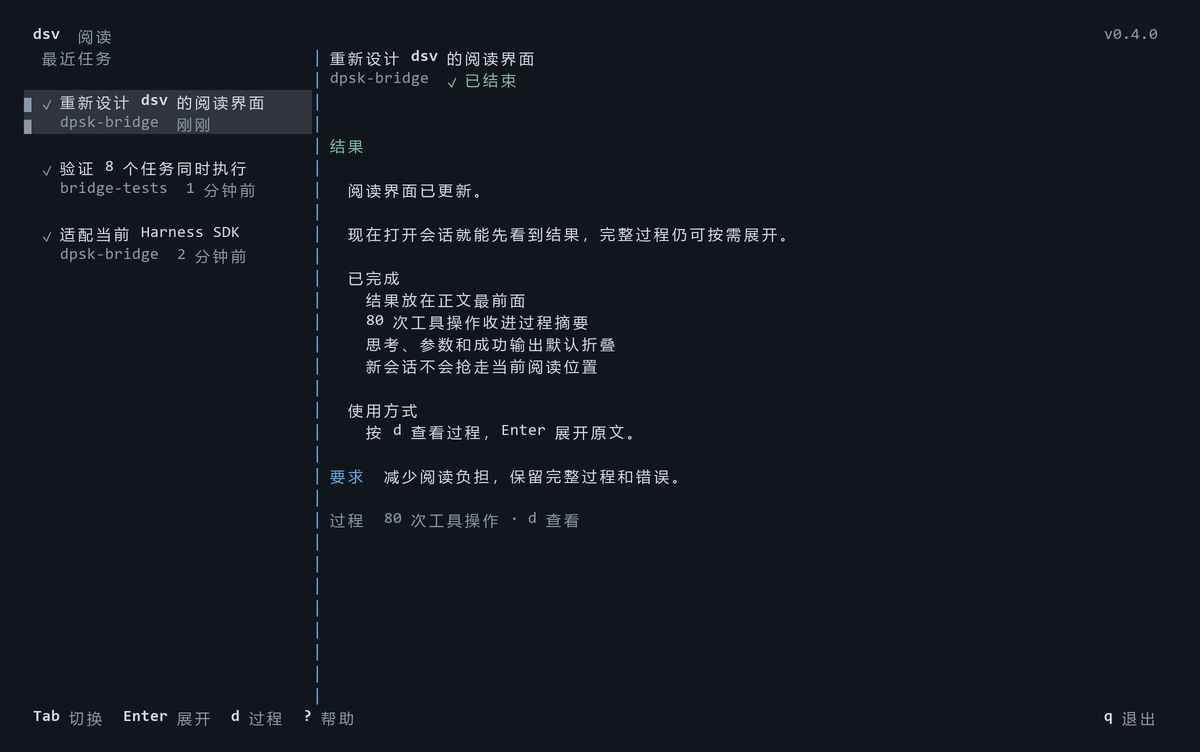
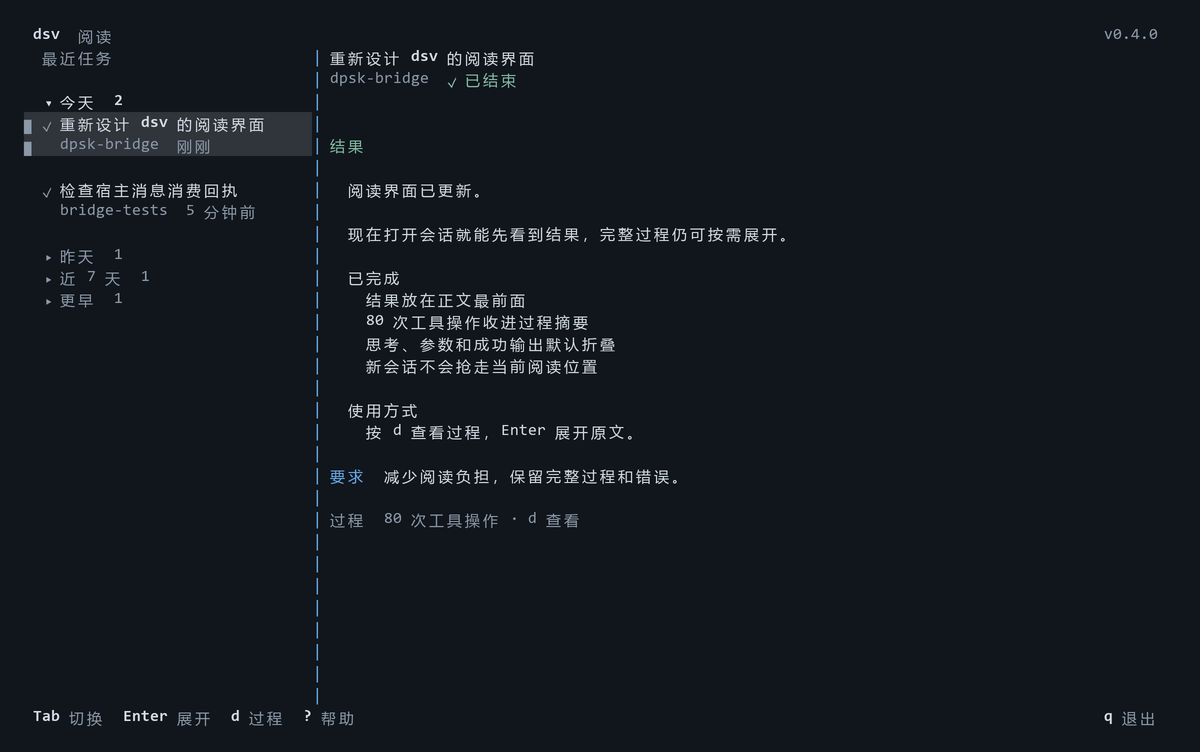
Group dsv sidebar sessions into collapsible time sections

Changed region(s): [[0.0, 0.1223, 0.2775, 0.4282]]

diff --git a/README.md b/README.md
@@ -98,6 +98,8 @@ dsv 读取当前 v4 明文/zstd 日志，增量处理残缺尾部、原生工具
 
 默认阅读视图先显示待回复问题和最新结果，任务原文可展开，工具流水汇成一行；思考、成功输出、时间戳和用量不占正文。按 d 切换完整过程，工具调用与返回合成一条可展开记录，计划更新按轮次汇总。新会话不会自动切走当前任务。
 
+左侧按最后更新时间分成今天、昨天、近 7 天、更早，按本地日历日划分。今天和启动时当前会话所在组默认展开，其余历史组收起；分组只展示非空组并附任务数。点击组标题，或在列表中选中组后按 Enter/空格折叠展开，左右键收起/展开。折叠不切换正文，刷新期间保留折叠状态。
+
 Tab 在任务列表与正文间切换，方向键或 j/k 移动，Enter/空格展开，Esc 返回列表，PgUp/PgDn 翻页，g/G 到顶/底，e/E 全部展开/收起。r 显示思考，i 查看路径/ID/用量，? 查看帮助，q 退出。自动切换(a)和提示音(b)默认关闭，可按需开启。窄窗口直接显示正文。日志状态不证明进程存活或验收结果。缓存最多 60 个会话，单会话 16 MiB/3 万事件，总解码缓存 64 MiB，超过限制会提示。
 
 TUI 异步检查 GitHub 最新正式 Release，缓存 6 小时，常驻时每小时重新评估。发现更新后顶栏提示，按 u 安装。网络检查失败不影响查看；普通命令行查看不联网检查。设置 NO_UPDATE_NOTIFIER=1、CI 环境或 --no-update-check 可关闭 TUI 自动检查，显式 dsv update 仍可用。

diff --git a/VALIDATION.md b/VALIDATION.md
@@ -8,6 +8,8 @@
 - 独立的真实 8 并发测试：8/8 作业成功，观测峰值为 8，逐一读取并验证产物。另有真实双任务并发测试通过。
 - dsv 阅读重设计：默认折叠 80 次成功工具输出，宽/窄窗口、键盘展开与帮助、新会话保持当前阅读、2105 行长回答与完整输出、终端控制码过滤均已回归；TUI 已在实际终端启动并通过 q 正常退出。
 
+时间分组增量回归：查看器模型与实际 TUI 帧测试 22/22 通过，覆盖本地日历日边界、排序、键盘/鼠标折叠、刷新保留折叠状态和宽窄窗口。上述 87 项为时间分组提交前的完整本地回归。
+
 更新器使用真实临时 Git 仓库验证快进、脏目录拒绝、错误 origin、分叉、依赖失败和保留预约恢复；网络发布源及 npm 安装边界在回归中模拟。没有把开发中的工作区更新成尚不存在的正式 Release。首次 tag 发布工作流仍须由 GitHub Actions 执行验证。
 
 Windows 与 Ubuntu 的 GitHub Actions 已通过；本机验证环境为 Windows。1–256 是配置范围，已实测的真实模型并发峰值为 8，不代表 256 吞吐保证。用量仅记录观测的根会话，未推算费用。
